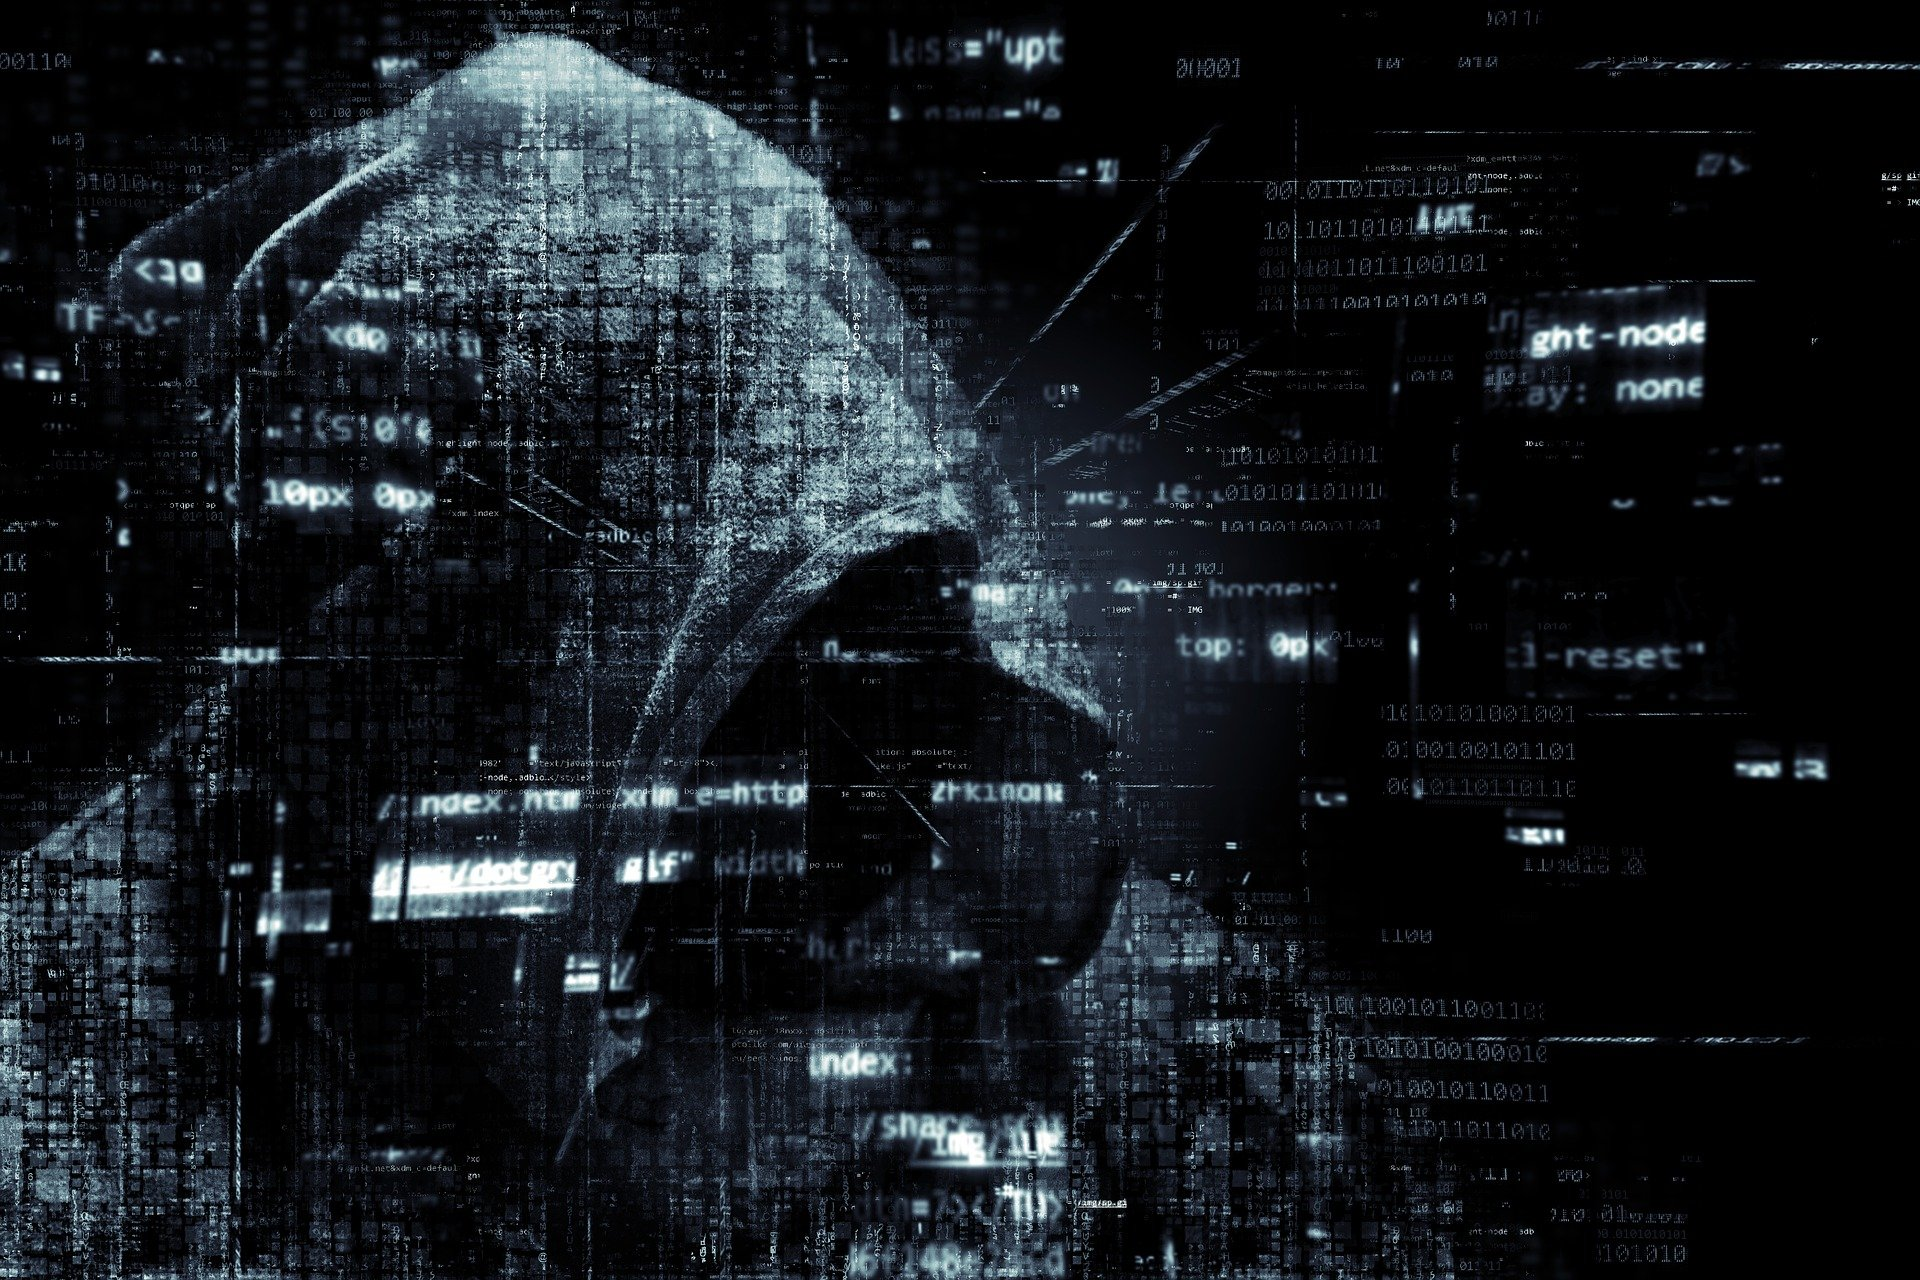
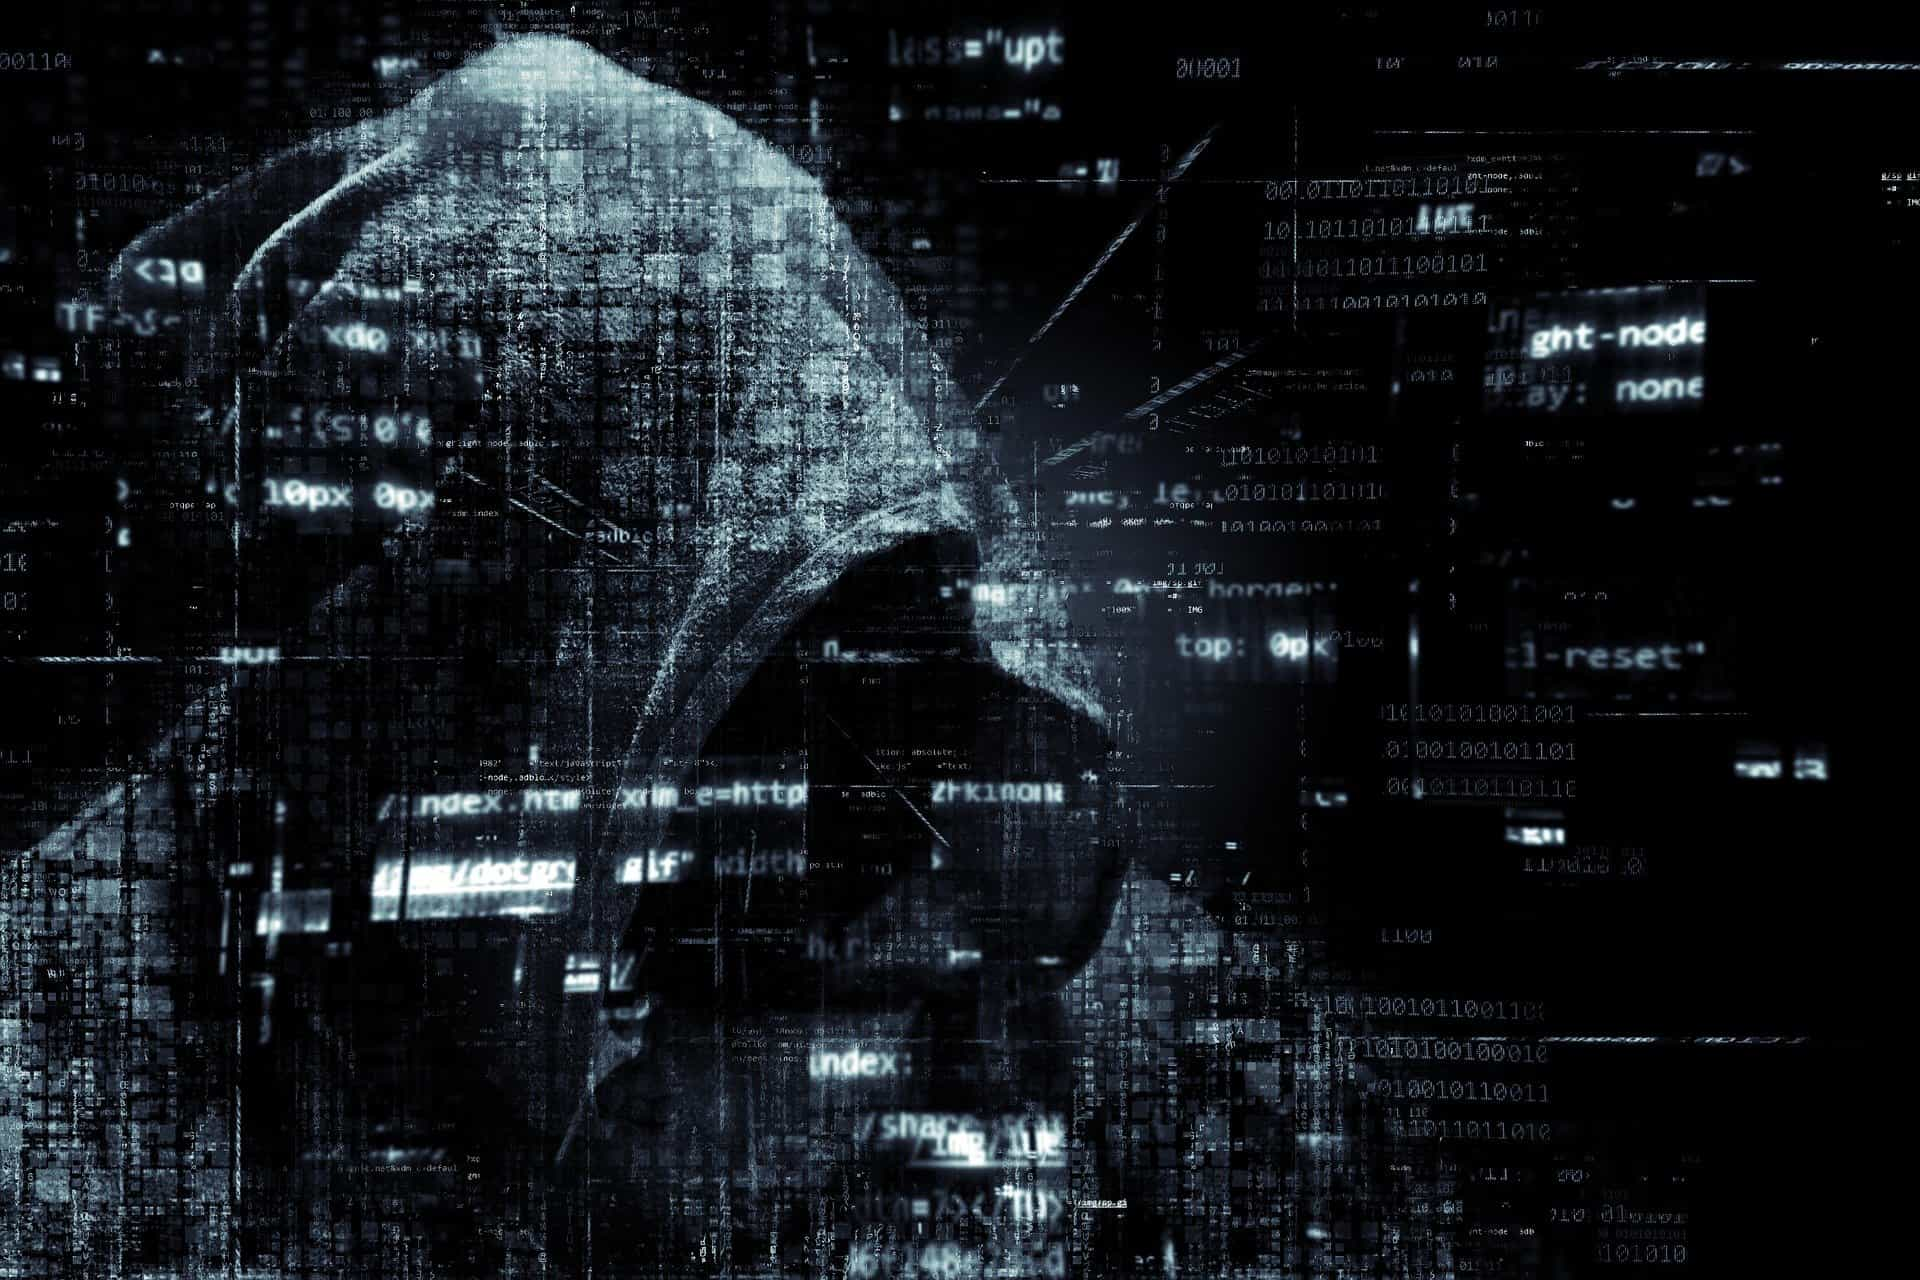
Se optimiza las imagenes para que tengan menor peso y puedan ser cargadas por la web mas facilmente

diff --git a/src/index.html b/src/index.html
@@ -6,8 +6,8 @@
     <!-- <link href="https://fonts.googleapis.com/css2?family=Open+Sans:wght@300;400;700&display=swap" rel="stylesheet"> -->
     <!-- <link href="https://fonts.googleapis.com/css2?family=Ubuntu:wght@300;400;700&display=swap" rel="stylesheet"> -->
     <link href="https://fonts.googleapis.com/css2?family=Roboto+Slab:wght@300;400;700&display=swap" rel="stylesheet">
-    <link rel='shortcut icon' href='./img/shield.ico' type='image/x-icon' sizes='any'>
-    <link rel='icon' href='./img/shield.ico' type='image/x-icon'>
+    <link rel='shortcut icon' href='./img/shield.png' type='image/x-icon' sizes='any'>
+    <link rel='icon' href='./img/shield.png' type='image/x-icon'>
     <title>Ad Security</title>
 </head>
 <body>
